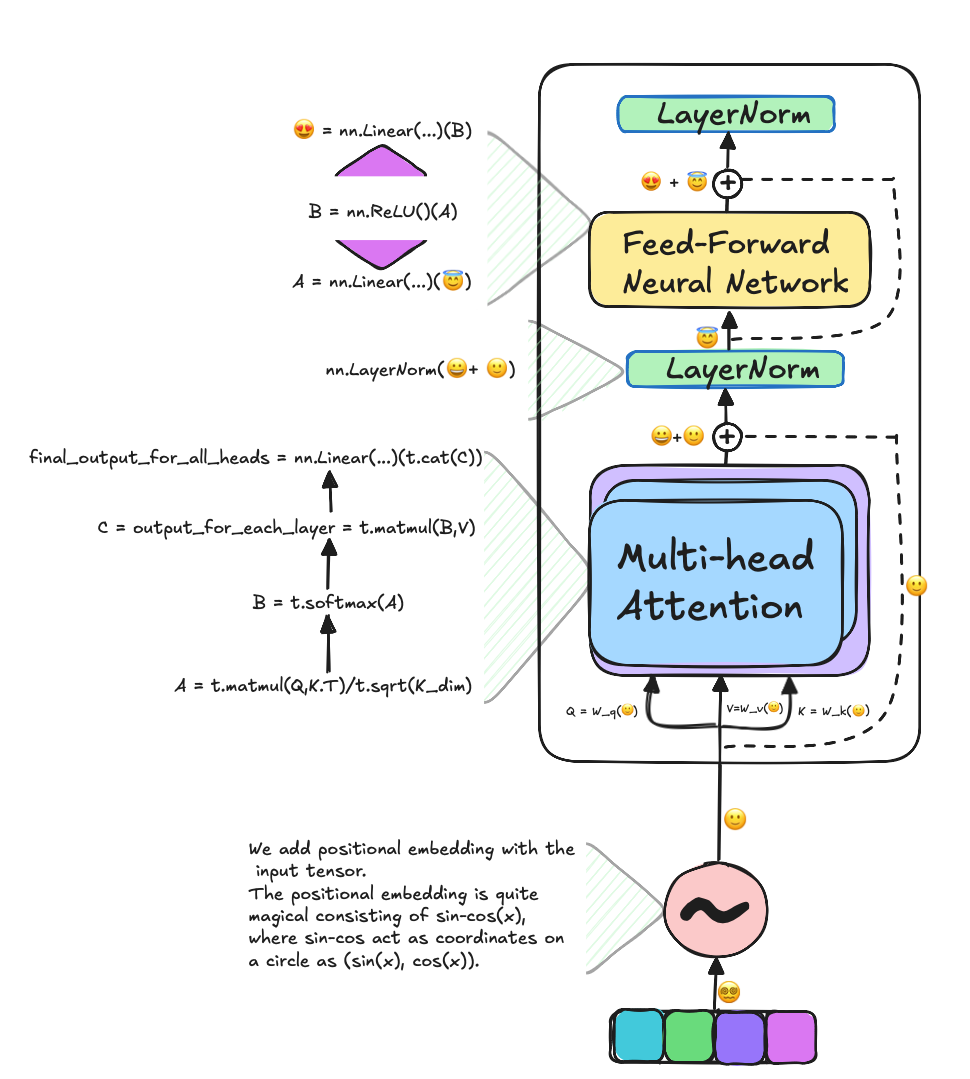
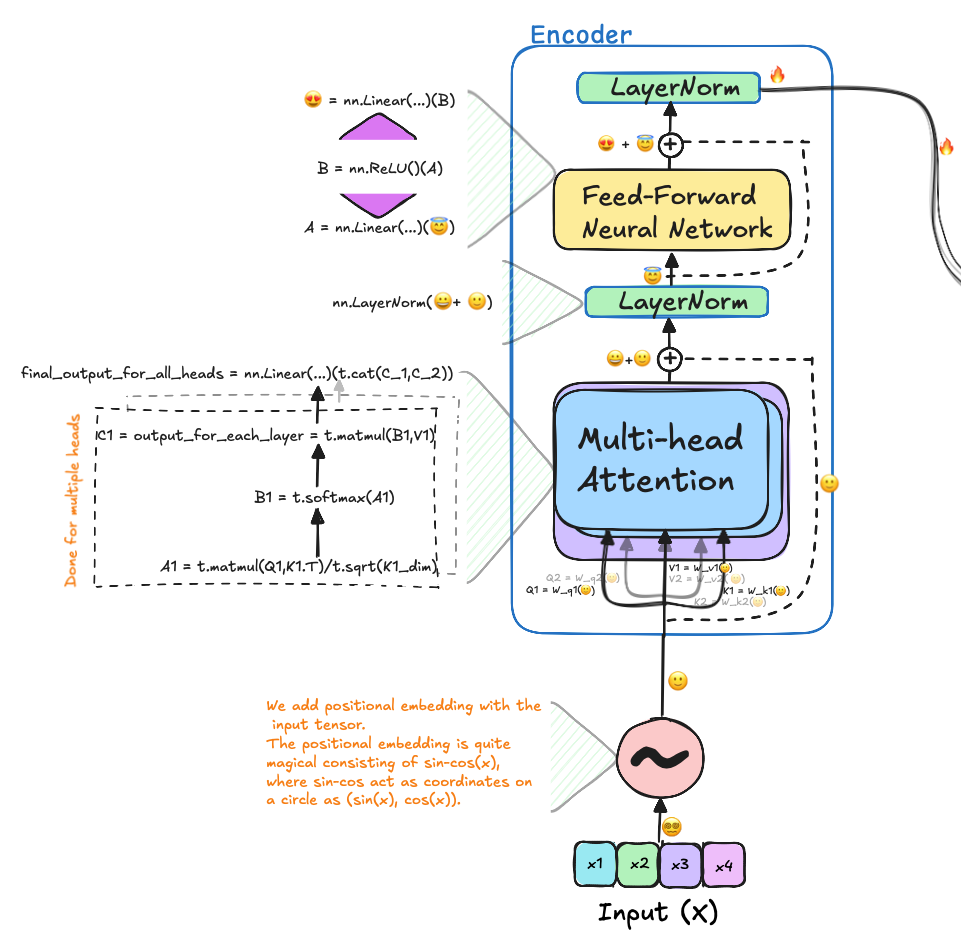
updated readme

Changed region(s): [[0.0312, 0.0307, 1.0, 1.0]]

diff --git a/Readme.md b/Readme.md
@@ -64,7 +64,10 @@ I have explained individual modules of encoder below, including:
 
 ![encoder image](figures/encoder.png)
 
+
 ### Multi-Head Attention:
+
+![alt text](figures/mhattn.png)
 
 ```python
    def self_attention(self):
@@ -92,6 +95,8 @@ self.layer_norm = nn.LayerNorm(512)
 ```
 
 ### Feed-Forward Layers:
+
+![alt text](figures/ffn.png)
 
 ```python
     def ffn(self, x:Tensor) -> Tensor:
